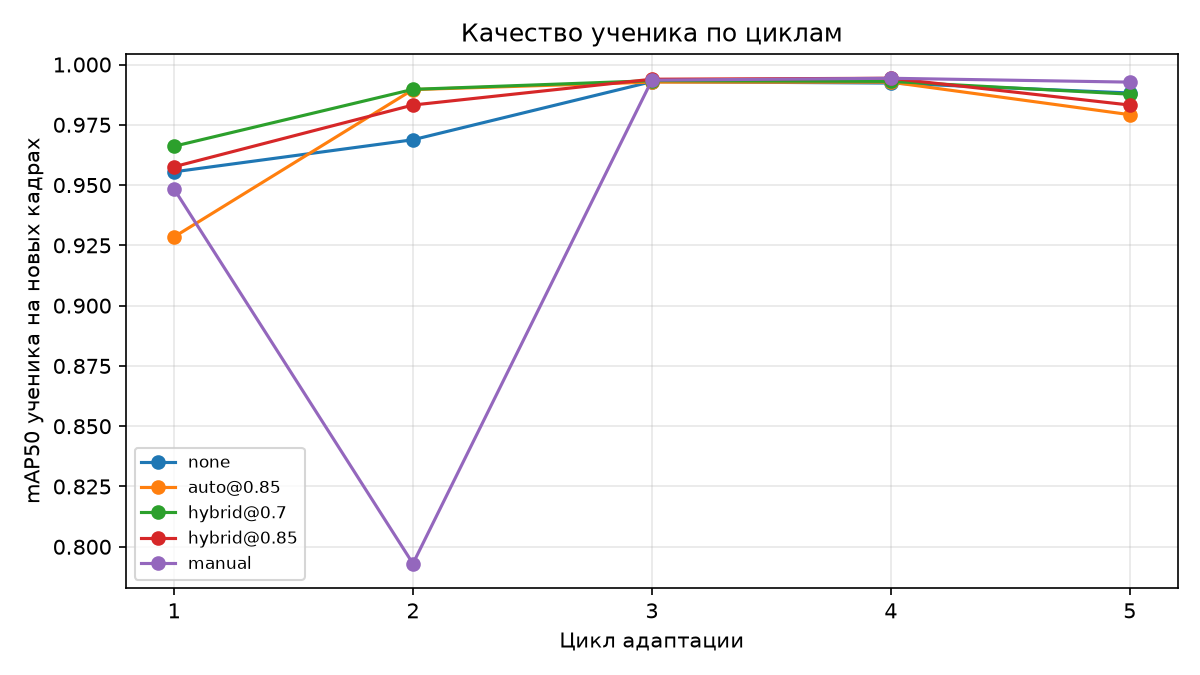
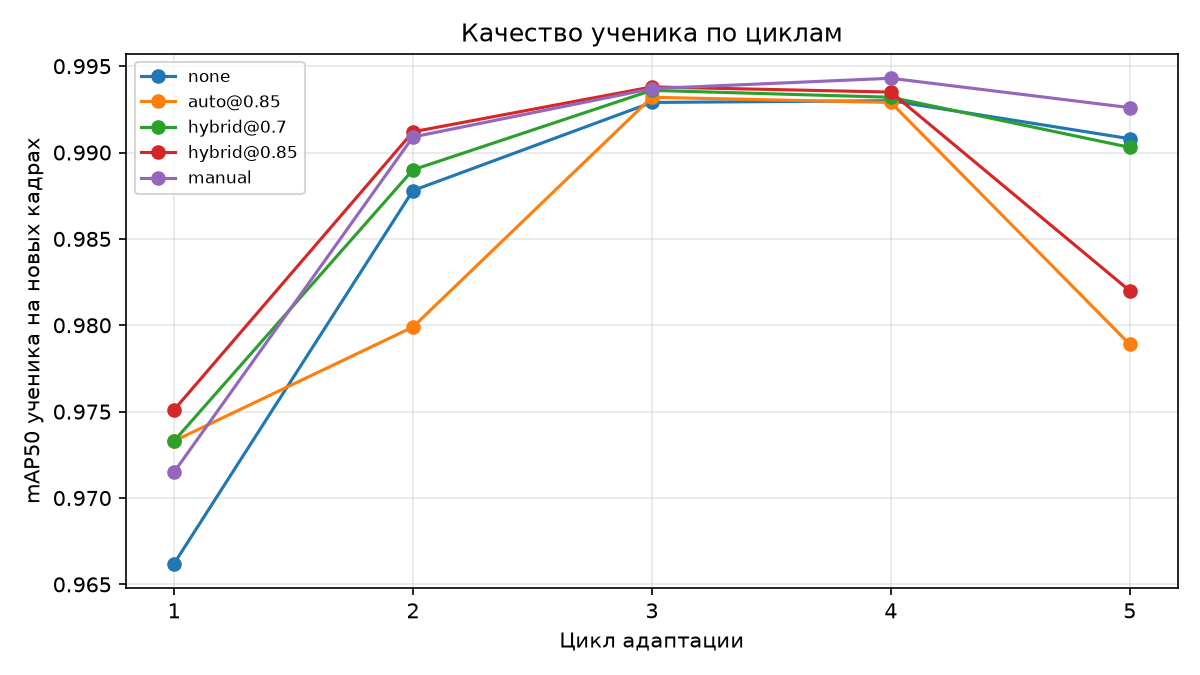
мегаэкскремент

diff --git a/runs/camera_v1/student/summary.md b/runs/camera_v1/student/summary.md
@@ -8,45 +8,45 @@
 
 | стратегия | цикл 1 | цикл 2 | цикл 3 | цикл 4 | цикл 5 | среднее |
 |---|---|---|---|---|---|---|
-| none | 0.956 | 0.969 | 0.993 | 0.992 | 0.988 | 0.980 |
-| auto@0.85 | 0.928 | 0.990 | 0.993 | 0.993 | 0.979 | 0.977 |
-| hybrid@0.7 | 0.966 | 0.990 | 0.993 | 0.993 | 0.988 | 0.986 |
-| hybrid@0.85 | 0.958 | 0.983 | 0.994 | 0.994 | 0.983 | 0.982 |
-| manual | 0.948 | 0.793 | 0.994 | 0.994 | 0.993 | 0.944 |
+| none | 0.966 | 0.988 | 0.993 | 0.993 | 0.991 | 0.986 |
+| auto@0.85 | 0.973 | 0.980 | 0.993 | 0.993 | 0.979 | 0.984 |
+| hybrid@0.7 | 0.973 | 0.989 | 0.994 | 0.993 | 0.990 | 0.988 |
+| hybrid@0.85 | 0.975 | 0.991 | 0.994 | 0.994 | 0.982 | 0.987 |
+| manual | 0.972 | 0.991 | 0.994 | 0.994 | 0.993 | 0.989 |
 
 ## Ручной труд и чистота меток (нарастающим итогом по обучающим группам цикла)
 
 | цикл | стратегия | кадров в обучении | человеку | доля человеку | отброшено | меток верно | mAP50 | mAP50-95 | P | R |
 |---|---|---|---|---|---|---|---|---|---|---|
-| 1 | none | 694 | 0 | 0.0% | 0 | 93.5% | 0.956 | 0.746 | 0.945 | 0.958 |
-| 1 | auto@0.85 | 419 | 0 | 0.0% | 275 | 98.6% | 0.928 | 0.730 | 0.928 | 0.867 |
-| 1 | hybrid@0.7 | 694 | 103 | 14.8% | 0 | 96.0% | 0.966 | 0.749 | 0.963 | 0.947 |
-| 1 | hybrid@0.85 | 694 | 275 | 39.6% | 0 | 99.1% | 0.958 | 0.759 | 0.955 | 0.943 |
-| 1 | manual | 694 | 694 | 100.0% | 0 | 100.0% | 0.948 | 0.774 | 0.955 | 0.930 |
-| 2 | none | 1501 | 0 | 0.0% | 0 | 91.9% | 0.969 | 0.815 | 0.967 | 0.938 |
-| 2 | auto@0.85 | 1056 | 0 | 0.0% | 445 | 96.6% | 0.990 | 0.842 | 0.969 | 0.979 |
-| 2 | hybrid@0.7 | 1501 | 166 | 11.1% | 0 | 94.2% | 0.990 | 0.837 | 0.976 | 0.969 |
-| 2 | hybrid@0.85 | 1501 | 445 | 29.6% | 0 | 97.6% | 0.983 | 0.849 | 0.972 | 0.978 |
-| 2 | manual | 1501 | 1501 | 100.0% | 0 | 100.0% | 0.793 | 0.650 | 0.933 | 0.692 |
-| 3 | none | 3549 | 0 | 0.0% | 0 | 91.2% | 0.993 | 0.861 | 0.966 | 0.990 |
-| 3 | auto@0.85 | 2472 | 0 | 0.0% | 1077 | 98.0% | 0.993 | 0.854 | 0.978 | 0.984 |
-| 3 | hybrid@0.7 | 3549 | 475 | 13.4% | 0 | 95.5% | 0.993 | 0.861 | 0.972 | 0.987 |
-| 3 | hybrid@0.85 | 3549 | 1077 | 30.3% | 0 | 98.6% | 0.994 | 0.871 | 0.980 | 0.986 |
-| 3 | manual | 3549 | 3549 | 100.0% | 0 | 100.0% | 0.994 | 0.901 | 0.975 | 0.991 |
-| 4 | none | 5468 | 0 | 0.0% | 0 | 92.5% | 0.992 | 0.863 | 0.975 | 0.982 |
-| 4 | auto@0.85 | 3758 | 0 | 0.0% | 1710 | 98.2% | 0.993 | 0.860 | 0.968 | 0.990 |
-| 4 | hybrid@0.7 | 5468 | 797 | 14.6% | 0 | 95.9% | 0.993 | 0.864 | 0.976 | 0.984 |
-| 4 | hybrid@0.85 | 5468 | 1710 | 31.3% | 0 | 98.8% | 0.994 | 0.874 | 0.979 | 0.990 |
-| 4 | manual | 5468 | 5468 | 100.0% | 0 | 100.0% | 0.994 | 0.914 | 0.987 | 0.985 |
-| 5 | none | 6188 | 0 | 0.0% | 0 | 92.8% | 0.988 | 0.824 | 0.948 | 0.970 |
-| 5 | auto@0.85 | 4237 | 0 | 0.0% | 1951 | 98.2% | 0.979 | 0.821 | 0.966 | 0.951 |
-| 5 | hybrid@0.7 | 6188 | 920 | 14.9% | 0 | 95.9% | 0.988 | 0.829 | 0.971 | 0.974 |
-| 5 | hybrid@0.85 | 6188 | 1951 | 31.5% | 0 | 98.8% | 0.983 | 0.841 | 0.966 | 0.980 |
-| 5 | manual | 6188 | 6188 | 100.0% | 0 | 100.0% | 0.993 | 0.863 | 0.972 | 0.980 |
+| 1 | none | 694 | 0 | 0.0% | 0 | 93.5% | 0.966 | 0.765 | 0.972 | 0.936 |
+| 1 | auto@0.85 | 419 | 0 | 0.0% | 275 | 98.6% | 0.973 | 0.756 | 0.969 | 0.952 |
+| 1 | hybrid@0.7 | 694 | 103 | 14.8% | 0 | 96.0% | 0.973 | 0.762 | 0.982 | 0.940 |
+| 1 | hybrid@0.85 | 694 | 275 | 39.6% | 0 | 99.1% | 0.975 | 0.769 | 0.971 | 0.949 |
+| 1 | manual | 694 | 694 | 100.0% | 0 | 100.0% | 0.972 | 0.795 | 0.976 | 0.930 |
+| 2 | none | 1469 | 0 | 0.0% | 0 | 93.3% | 0.988 | 0.843 | 0.980 | 0.972 |
+| 2 | auto@0.85 | 1045 | 0 | 0.0% | 424 | 97.6% | 0.980 | 0.830 | 0.974 | 0.956 |
+| 2 | hybrid@0.7 | 1469 | 151 | 10.3% | 0 | 95.2% | 0.989 | 0.815 | 0.980 | 0.964 |
+| 2 | hybrid@0.85 | 1469 | 424 | 28.9% | 0 | 98.3% | 0.991 | 0.838 | 0.970 | 0.976 |
+| 2 | manual | 1469 | 1469 | 100.0% | 0 | 100.0% | 0.991 | 0.863 | 0.976 | 0.973 |
+| 3 | none | 3517 | 0 | 0.0% | 0 | 91.8% | 0.993 | 0.853 | 0.969 | 0.990 |
+| 3 | auto@0.85 | 2461 | 0 | 0.0% | 1056 | 98.4% | 0.993 | 0.848 | 0.975 | 0.981 |
+| 3 | hybrid@0.7 | 3517 | 460 | 13.1% | 0 | 95.9% | 0.994 | 0.855 | 0.980 | 0.986 |
+| 3 | hybrid@0.85 | 3517 | 1056 | 30.0% | 0 | 98.9% | 0.994 | 0.867 | 0.979 | 0.984 |
+| 3 | manual | 3517 | 3517 | 100.0% | 0 | 100.0% | 0.994 | 0.906 | 0.975 | 0.993 |
+| 4 | none | 5436 | 0 | 0.0% | 0 | 92.9% | 0.993 | 0.862 | 0.974 | 0.984 |
+| 4 | auto@0.85 | 3747 | 0 | 0.0% | 1689 | 98.5% | 0.993 | 0.864 | 0.972 | 0.989 |
+| 4 | hybrid@0.7 | 5436 | 782 | 14.4% | 0 | 96.2% | 0.993 | 0.864 | 0.979 | 0.984 |
+| 4 | hybrid@0.85 | 5436 | 1689 | 31.1% | 0 | 99.0% | 0.994 | 0.874 | 0.986 | 0.985 |
+| 4 | manual | 5436 | 5436 | 100.0% | 0 | 100.0% | 0.994 | 0.922 | 0.989 | 0.983 |
+| 5 | none | 6156 | 0 | 0.0% | 0 | 93.1% | 0.991 | 0.835 | 0.963 | 0.972 |
+| 5 | auto@0.85 | 4226 | 0 | 0.0% | 1930 | 98.5% | 0.979 | 0.811 | 0.962 | 0.969 |
+| 5 | hybrid@0.7 | 6156 | 905 | 14.7% | 0 | 96.1% | 0.990 | 0.832 | 0.950 | 0.975 |
+| 5 | hybrid@0.85 | 6156 | 1930 | 31.4% | 0 | 99.0% | 0.982 | 0.839 | 0.970 | 0.975 |
+| 5 | manual | 6156 | 6156 | 100.0% | 0 | 100.0% | 0.993 | 0.872 | 0.967 | 0.985 |
 
 Циклы:
 
-- цикл 1: обучение на 2025-11-09+2025-11-15, проверка на 2025-11-16 (807 кадров)
+- цикл 1: обучение на 2025-11-09+2025-11-15, проверка на 2025-11-16 (775 кадров)
 - цикл 2: обучение на 2025-11-09+2025-11-15+2025-11-16, проверка на 2025-11-29+2025-11-30 (2048 кадров)
 - цикл 3: обучение на 2025-11-09+2025-11-15+2025-11-16+2025-11-29+2025-11-30, проверка на 2025-12-06 (1919 кадров)
 - цикл 4: обучение на 2025-11-09+2025-11-15+2025-11-16+2025-11-29+2025-11-30+2025-12-06, проверка на 2025-12-07 (720 кадров)

diff --git a/runs/camera_v1/student_with_dec6/summary.md b/runs/camera_v1/student_with_dec6/summary.md
@@ -1,0 +1,53 @@
+# Ученик на метках ансамбля
+
+Калибровка порогов учителей: 200 кадров из групп 2025-11-09+2025-11-15, размеченных человеком (кадров верно на калибровке: 0.9450).
+Пороги уверенности учителей: {'llmdet-large': 0.2, 'mm-grounding-dino-large': 0.25, 'owlv2-large': 0.2}; максимальная площадь рамки: {'mm-grounding-dino-large': 0.03, 'llmdet-large': 0.03, 'owlv2-large': 0.03}; веса: равные.
+Ученик: yolov8n.pt, эпох 30, размер входа 640, каждый цикл с нуля на накопленных метках.
+
+## mAP50 ученика на проверочных группах
+
+| стратегия | цикл 1 | цикл 2 | цикл 3 | цикл 4 | цикл 5 | среднее |
+|---|---|---|---|---|---|---|
+| none | 0.956 | 0.969 | 0.993 | 0.992 | 0.988 | 0.980 |
+| auto@0.85 | 0.928 | 0.990 | 0.993 | 0.993 | 0.979 | 0.977 |
+| hybrid@0.7 | 0.966 | 0.990 | 0.993 | 0.993 | 0.988 | 0.986 |
+| hybrid@0.85 | 0.958 | 0.983 | 0.994 | 0.994 | 0.983 | 0.982 |
+| manual | 0.948 | 0.793 | 0.994 | 0.994 | 0.993 | 0.944 |
+
+## Ручной труд и чистота меток (нарастающим итогом по обучающим группам цикла)
+
+| цикл | стратегия | кадров в обучении | человеку | доля человеку | отброшено | меток верно | mAP50 | mAP50-95 | P | R |
+|---|---|---|---|---|---|---|---|---|---|---|
+| 1 | none | 694 | 0 | 0.0% | 0 | 93.5% | 0.956 | 0.746 | 0.945 | 0.958 |
+| 1 | auto@0.85 | 419 | 0 | 0.0% | 275 | 98.6% | 0.928 | 0.730 | 0.928 | 0.867 |
+| 1 | hybrid@0.7 | 694 | 103 | 14.8% | 0 | 96.0% | 0.966 | 0.749 | 0.963 | 0.947 |
+| 1 | hybrid@0.85 | 694 | 275 | 39.6% | 0 | 99.1% | 0.958 | 0.759 | 0.955 | 0.943 |
+| 1 | manual | 694 | 694 | 100.0% | 0 | 100.0% | 0.948 | 0.774 | 0.955 | 0.930 |
+| 2 | none | 1501 | 0 | 0.0% | 0 | 91.9% | 0.969 | 0.815 | 0.967 | 0.938 |
+| 2 | auto@0.85 | 1056 | 0 | 0.0% | 445 | 96.6% | 0.990 | 0.842 | 0.969 | 0.979 |
+| 2 | hybrid@0.7 | 1501 | 166 | 11.1% | 0 | 94.2% | 0.990 | 0.837 | 0.976 | 0.969 |
+| 2 | hybrid@0.85 | 1501 | 445 | 29.6% | 0 | 97.6% | 0.983 | 0.849 | 0.972 | 0.978 |
+| 2 | manual | 1501 | 1501 | 100.0% | 0 | 100.0% | 0.793 | 0.650 | 0.933 | 0.692 |
+| 3 | none | 3549 | 0 | 0.0% | 0 | 91.2% | 0.993 | 0.861 | 0.966 | 0.990 |
+| 3 | auto@0.85 | 2472 | 0 | 0.0% | 1077 | 98.0% | 0.993 | 0.854 | 0.978 | 0.984 |
+| 3 | hybrid@0.7 | 3549 | 475 | 13.4% | 0 | 95.5% | 0.993 | 0.861 | 0.972 | 0.987 |
+| 3 | hybrid@0.85 | 3549 | 1077 | 30.3% | 0 | 98.6% | 0.994 | 0.871 | 0.980 | 0.986 |
+| 3 | manual | 3549 | 3549 | 100.0% | 0 | 100.0% | 0.994 | 0.901 | 0.975 | 0.991 |
+| 4 | none | 5468 | 0 | 0.0% | 0 | 92.5% | 0.992 | 0.863 | 0.975 | 0.982 |
+| 4 | auto@0.85 | 3758 | 0 | 0.0% | 1710 | 98.2% | 0.993 | 0.860 | 0.968 | 0.990 |
+| 4 | hybrid@0.7 | 5468 | 797 | 14.6% | 0 | 95.9% | 0.993 | 0.864 | 0.976 | 0.984 |
+| 4 | hybrid@0.85 | 5468 | 1710 | 31.3% | 0 | 98.8% | 0.994 | 0.874 | 0.979 | 0.990 |
+| 4 | manual | 5468 | 5468 | 100.0% | 0 | 100.0% | 0.994 | 0.914 | 0.987 | 0.985 |
+| 5 | none | 6188 | 0 | 0.0% | 0 | 92.8% | 0.988 | 0.824 | 0.948 | 0.970 |
+| 5 | auto@0.85 | 4237 | 0 | 0.0% | 1951 | 98.2% | 0.979 | 0.821 | 0.966 | 0.951 |
+| 5 | hybrid@0.7 | 6188 | 920 | 14.9% | 0 | 95.9% | 0.988 | 0.829 | 0.971 | 0.974 |
+| 5 | hybrid@0.85 | 6188 | 1951 | 31.5% | 0 | 98.8% | 0.983 | 0.841 | 0.966 | 0.980 |
+| 5 | manual | 6188 | 6188 | 100.0% | 0 | 100.0% | 0.993 | 0.863 | 0.972 | 0.980 |
+
+Циклы:
+
+- цикл 1: обучение на 2025-11-09+2025-11-15, проверка на 2025-11-16 (807 кадров)
+- цикл 2: обучение на 2025-11-09+2025-11-15+2025-11-16, проверка на 2025-11-29+2025-11-30 (2048 кадров)
+- цикл 3: обучение на 2025-11-09+2025-11-15+2025-11-16+2025-11-29+2025-11-30, проверка на 2025-12-06 (1919 кадров)
+- цикл 4: обучение на 2025-11-09+2025-11-15+2025-11-16+2025-11-29+2025-11-30+2025-12-06, проверка на 2025-12-07 (720 кадров)
+- цикл 5: обучение на 2025-11-09+2025-11-15+2025-11-16+2025-11-29+2025-11-30+2025-12-06+2025-12-07, проверка на 2025-12-13 (462 кадров)
